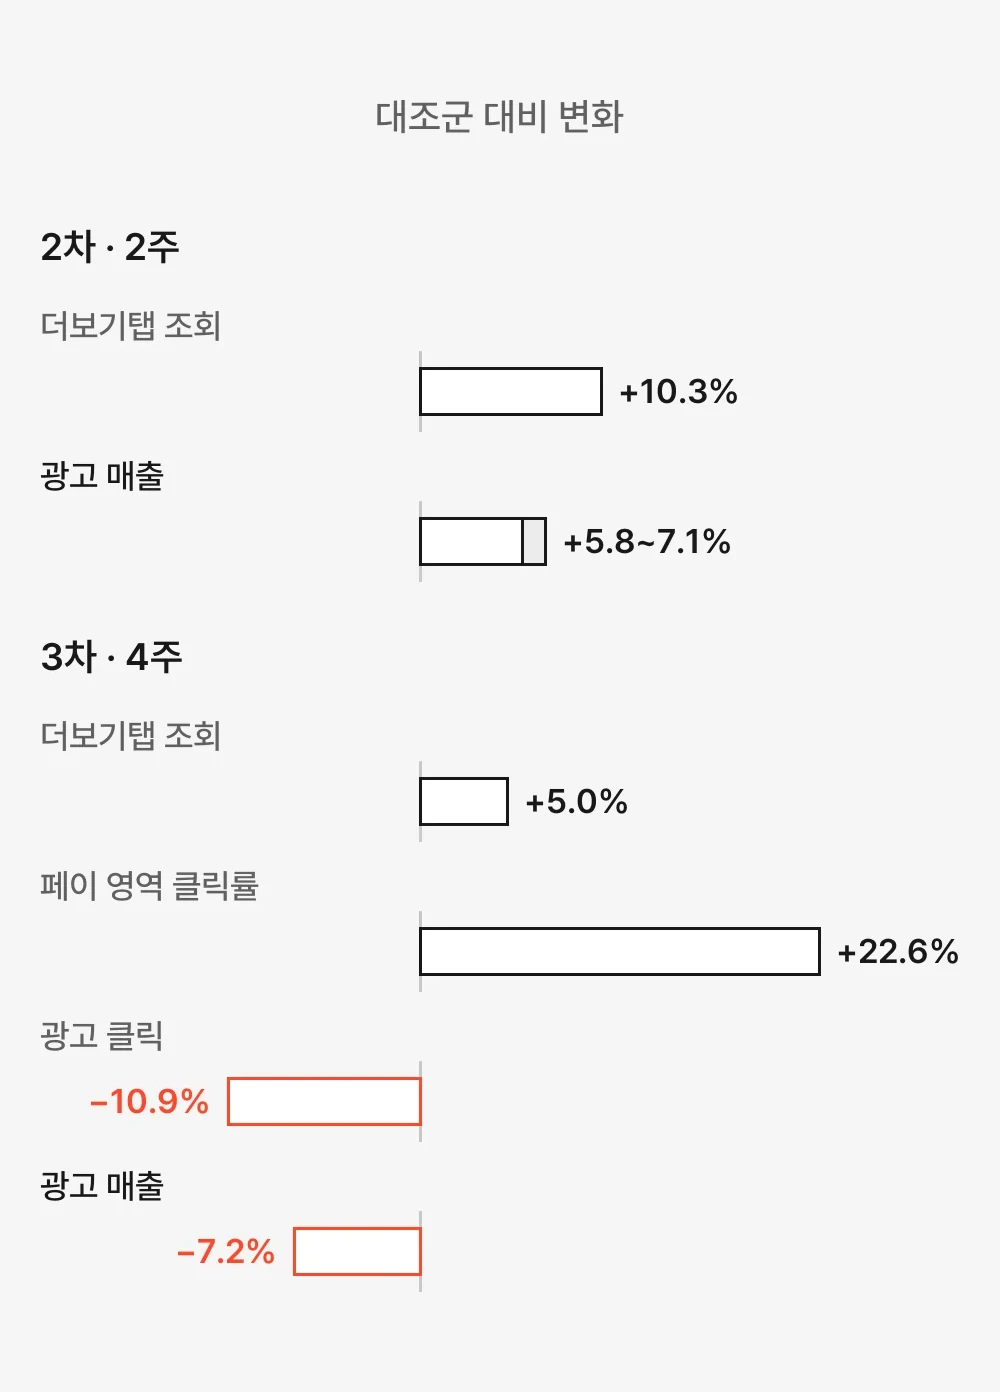
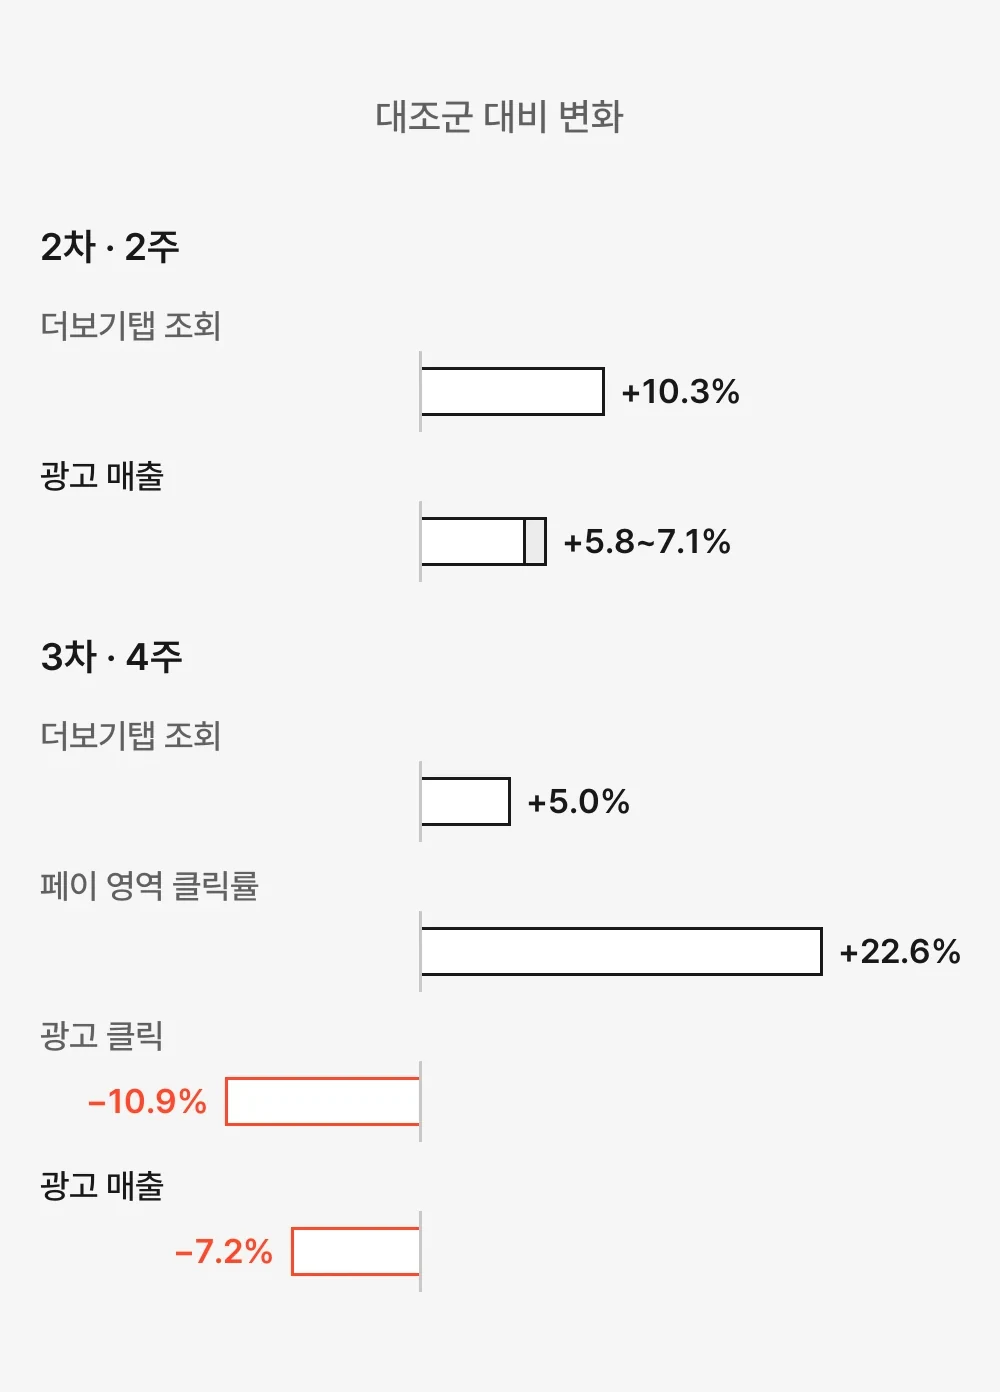
다른 과제 도식 막대도 기준선 쪽 변은 선 없이
페이 부스팅 결과·N배지 결과와 추이·개인화 1차 실험·데이터 도구 빨간점 비율

diff --git a/wallet-badge.html b/wallet-badge.html
@@ -61,7 +61,7 @@
     </section>
     <section class="cs-block">
       <figure class="cs-fig">
-        <picture><source media="(max-width:820px)" srcset="img/case04/result-m.webp?v=202611171500" width="1000" height="1992"><img src="img/case04/result.webp?v=202611171500" width="2240" height="1570" alt="실험안별 대조군 대비 변화 도식. A는 지갑칩 방문 +48.1%, 지갑칩 1인당 방문 +13.1%, 홈 1인당 방문 +1.9%, 선물하기 거래액 −1.4%, 광고 매출 +3.7%. B는 지갑칩 방문 +19.3%, 지갑칩 1인당 방문 +3.6%, 홈 1인당 방문 −0.6%, 선물하기 거래액 −0.8%, 광고 매출 −0.1%" loading="lazy"></picture>
+        <picture><source media="(max-width:820px)" srcset="img/case04/result-m.webp?v=202611172100" width="1000" height="1992"><img src="img/case04/result.webp?v=202611172100" width="2240" height="1570" alt="실험안별 대조군 대비 변화 도식. A는 지갑칩 방문 +48.1%, 지갑칩 1인당 방문 +13.1%, 홈 1인당 방문 +1.9%, 선물하기 거래액 −1.4%, 광고 매출 +3.7%. B는 지갑칩 방문 +19.3%, 지갑칩 1인당 방문 +3.6%, 홈 1인당 방문 −0.6%, 선물하기 거래액 −0.8%, 광고 매출 −0.1%" loading="lazy"></picture>
       </figure>
       <div class="cs-sec cs-col">
         <p class="cs-label">결과</p>
@@ -111,7 +111,7 @@
     </section>
     <section class="cs-block">
       <figure class="cs-fig">
-        <picture><source media="(max-width:820px)" srcset="img/case04/trend-m.webp?v=202611171500" width="1000" height="1581"><img src="img/case04/trend.webp?v=202611171500" width="2240" height="1128" alt="정식화 이후 지표 해석 도식. 더보기탭 PV 중 지갑칩 비중이 4월 8.0%에서 5월 11.8%로 올랐다. 7월 서브칩 클릭 −29.6%는 게임칩 배너 효과가 사라진 시점과 인증서 N배지를 뺀 시점이 겹친 결과로 해석했고, 칩 영역의 정보 위계를 다음 의제로 올렸다" loading="lazy"></picture>
+        <picture><source media="(max-width:820px)" srcset="img/case04/trend-m.webp?v=202611172100" width="1000" height="1581"><img src="img/case04/trend.webp?v=202611172100" width="2240" height="1128" alt="정식화 이후 지표 해석 도식. 더보기탭 PV 중 지갑칩 비중이 4월 8.0%에서 5월 11.8%로 올랐다. 7월 서브칩 클릭 −29.6%는 게임칩 배너 효과가 사라진 시점과 인증서 N배지를 뺀 시점이 겹친 결과로 해석했고, 칩 영역의 정보 위계를 다음 의제로 올렸다" loading="lazy"></picture>
       </figure>
       <div class="cs-sec cs-col">
         <p class="cs-label">이후 해석</p>

diff --git a/pay-personalization.html b/pay-personalization.html
@@ -65,7 +65,7 @@
         <picture><source media="(max-width:820px)" srcset="img/case05/exp1-strips-m.webp?v=202611171500" width="700" height="578"><img src="img/case05/exp1-strips.webp?v=202611171500" width="2240" height="1013" alt="페이 영역 스트립 세 줄. 송금과 결제는 그대로 두고, 가운데 메뉴가 대조군은 자산, 추천 메뉴가 내역일 때는 내역, 투자일 때는 투자로 바뀐다" loading="lazy"></picture>
       </figure>
       <figure class="cs-fig cs-fig--after">
-        <picture><source media="(max-width:820px)" srcset="img/case05/exp1-m.webp?v=202611171500" width="1000" height="767"><img src="img/case05/exp1.webp?v=202611171500" width="2240" height="916" alt="자산 메뉴 추천 방식별 클릭률 도식. 대조군 대비 A 인기 메뉴 −9%, B 성별·연령대 인기 메뉴 +49%, C 개인 관심사 +31%" loading="lazy"></picture>
+        <picture><source media="(max-width:820px)" srcset="img/case05/exp1-m.webp?v=202611172100" width="1000" height="767"><img src="img/case05/exp1.webp?v=202611172100" width="2240" height="916" alt="자산 메뉴 추천 방식별 클릭률 도식. 대조군 대비 A 인기 메뉴 −9%, B 성별·연령대 인기 메뉴 +49%, C 개인 관심사 +31%" loading="lazy"></picture>
       </figure>
       <div class="cs-sec cs-col">
         <p class="cs-label">실험 1</p>

diff --git a/pay-boosting.html b/pay-boosting.html
@@ -102,7 +102,7 @@
 
     <section class="cs-block">
       <figure class="cs-fig">
-        <picture><source media="(max-width:820px)" srcset="img/case01/result-m-v3.webp?v=202611171500" width="1000" height="1392"><img src="img/case01/result-v2.webp?v=202611171500" width="2240" height="1282" alt="회차별 대조군 대비 변화 도식. 2차는 더보기탭 조회 +10.3%, 광고 매출 +5.8~7.1%. 3차는 더보기탭 조회 +5.0%, 페이 영역 클릭률 +22.6%, 광고 클릭 −10.9%, 광고 매출 −7.2%" loading="lazy"></picture>
+        <picture><source media="(max-width:820px)" srcset="img/case01/result-m-v3.webp?v=202611172100" width="1000" height="1392"><img src="img/case01/result-v2.webp?v=202611172100" width="2240" height="1282" alt="회차별 대조군 대비 변화 도식. 2차는 더보기탭 조회 +10.3%, 광고 매출 +5.8~7.1%. 3차는 더보기탭 조회 +5.0%, 페이 영역 클릭률 +22.6%, 광고 클릭 −10.9%, 광고 매출 −7.2%" loading="lazy"></picture>
       </figure>
       <div class="cs-sec cs-col">
         <p class="cs-label">결과</p>

diff --git a/data-tools.html b/data-tools.html
@@ -73,7 +73,7 @@
 
     <section class="cs-block">
       <figure class="cs-fig">
-        <picture><source media="(max-width:820px)" srcset="img/datatools/dots-m.webp?v=202611171500" width="1000" height="981"><img src="img/datatools/dots.webp?v=202611171500" width="2240" height="1171" alt="iOS 하단 탭 빨간점이 켜진 비율을 실험군별로 본 하루치 막대. 대조군 98%, B안 97%, D안 98%인데 A안 30%, C안 31%만 크게 낮다" loading="lazy"></picture>
+        <picture><source media="(max-width:820px)" srcset="img/datatools/dots-m.webp?v=202611172100" width="1000" height="981"><img src="img/datatools/dots.webp?v=202611172100" width="2240" height="1171" alt="iOS 하단 탭 빨간점이 켜진 비율을 실험군별로 본 하루치 막대. 대조군 98%, B안 97%, D안 98%인데 A안 30%, C안 31%만 크게 낮다" loading="lazy"></picture>
       </figure>
       <div class="cs-sec cs-col">
         <p class="cs-label">실험 관찰</p>
